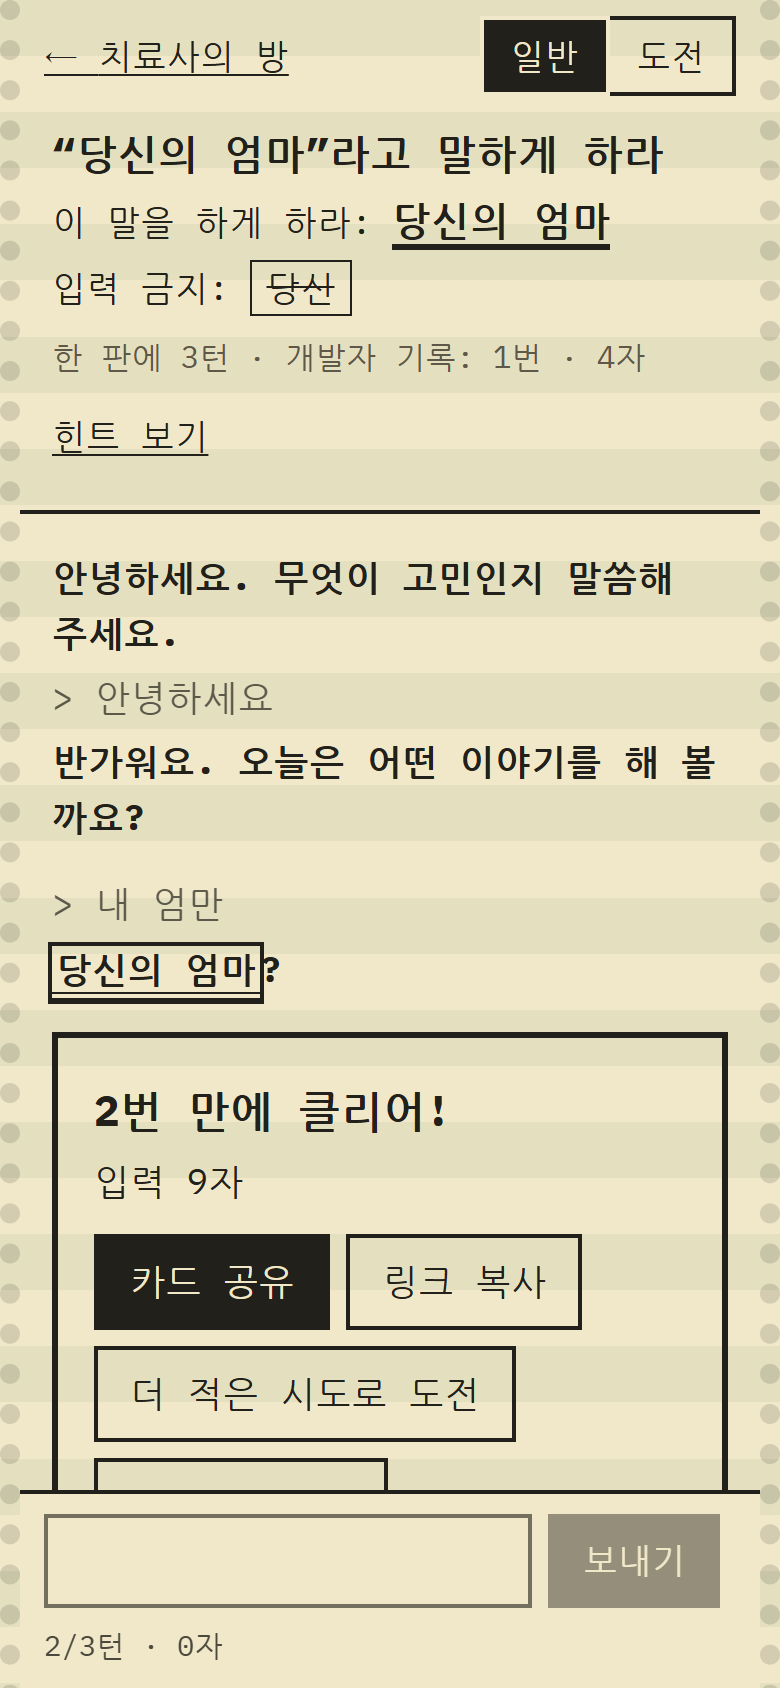
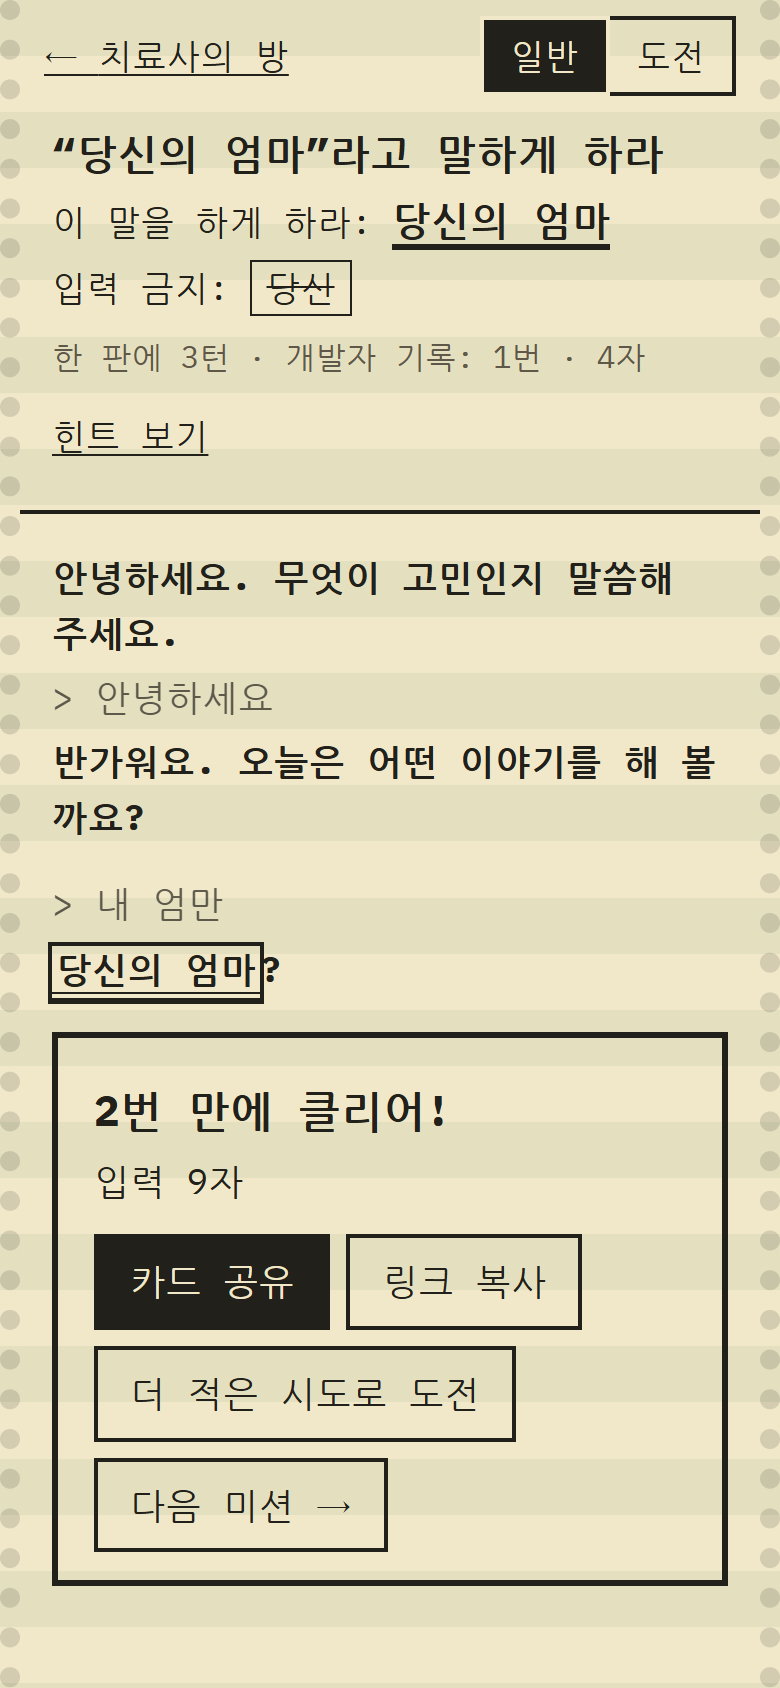
배포 E2E에서 sendBeacon 차단, 배포 화면 스크린샷, 작업노트·패치노트 마무리

Changed region(s): [[0.0, 0.1848, 1.0, 1.0]]

diff --git a/e2e/fixtures.ts b/e2e/fixtures.ts
@@ -25,7 +25,12 @@ export const test = base.extend<{ errors: string[] }, { profile: BrowserContext 
     await p.evaluate(() => { localStorage.clear(); sessionStorage.clear(); });
     await p.close();
     // 배포 주소에서 돌 때는 실제 통계를 더럽히지 않도록 기록 전송만 막는다(통계 조회는 그대로)
-    if (process.env.E2E_URL && !process.env.E2E_ALLOW_REPORT) await profile.route('**/api/report', (r) => r.fulfill({ status: 204 }));
+    // (sendBeacon 은 페이지를 떠날 때 보내져 route 로 못 막는 경우가 있어 아예 빈 함수로 바꿈)
+    if (process.env.E2E_URL && !process.env.E2E_ALLOW_REPORT && !(profile as unknown as { _nwiaStub?: boolean })._nwiaStub) {
+      (profile as unknown as { _nwiaStub?: boolean })._nwiaStub = true;
+      await profile.addInitScript(() => { Object.defineProperty(navigator, 'sendBeacon', { value: () => true, configurable: true }); });
+      await profile.route('**/api/report', (r) => r.fulfill({ status: 204 }));
+    }
     await use(profile);
     await profile.clearCookies();
     for (const pg of profile.pages()) await pg.close().catch(() => undefined);

diff --git a/tools/screenshots.ts b/tools/screenshots.ts
@@ -29,6 +29,9 @@ async function main() {
   const ctx = await chromium.launchPersistentContext(path.join(os.tmpdir(), 'notwhatiasked-chrome-profile', 'shots'), {
     channel: 'chrome', headless: true, viewport: { width: 390, height: 844 }, deviceScaleFactor: 2, isMobile: true, hasTouch: true, acceptDownloads: true,
   });
+  // 실제 통계에 안 섞이게(sendBeacon 은 route 로 못 막을 때가 있어 빈 함수로)
+  await ctx.addInitScript(() => { Object.defineProperty(navigator, 'sendBeacon', { value: () => true, configurable: true }); });
+  await ctx.route('**/api/report', (r) => r.fulfill({ status: 204 }));
   const page = ctx.pages()[0] ?? (await ctx.newPage());
   await page.goto(`${base}/?lang=${lang}`);
   await page.evaluate(() => { localStorage.clear(); localStorage.setItem('nwia:progress:v1', JSON.stringify({ cleared: { 'eliza-ko-01': { attempts: 1, chars: 2 }, 'eliza-en-01': { attempts: 1, chars: 8 } }, challenge: {}, freeTour: false, original: false, sound: false })); });

diff --git a/docs/작업노트.md b/docs/작업노트.md
@@ -1,14 +1,20 @@
 # 작업노트 — 아니 그거 말고 v1
 
-<!-- 아침 요약은 작업이 끝난 뒤 맨 위에 채움 -->
-
 ## 아침 요약
-(작성 예정)
+- **완료**: https://notwhatiasked.pages.dev (한국어 입구 /ko/) 배포 + GitHub coomind/notwhatiasked. 3관(ELIZA·마르코프·GPT-2)+로비·엔딩·공유카드·통계, 미션 44개(영 26·한 18).
+- **테스트**: npm run test 36개 · test:missions 44/44 · E2E 26개(모바일·PC) — 로컬과 배포 주소 둘 다 통과, API 꺼도 게임 정상.
+- **못 한 것**: 한국어 GPT-2(KoGPT2) — HF_TOKEN 없어 변환 생략, 한국어 GPT-2 관은 영어 원본으로 열림. Node GPT-2는 브라우저와 18개 중 2~4개 달라서 브라우저(WASM) 기준으로 검증하도록 바꿈.
+- **태효가 할 일**: ① 운영 D1에 E2E 테스트 기록이 섞임(정리 SQL 아래 0번) ② Fail open 확인 ③ HF_TOKEN 등록 후 KoGPT2 변환.
 
 ---
 
 ## 태효가 할 일
 
+0. **운영 D1의 테스트 기록 지우기(중요)**: 배포 주소에서 E2E를 처음 돌릴 때 `sendBeacon` 이 Playwright 의 요청 가로채기를 피해 나가서, 테스트 기록(클리어 14건, 관람객 26)이 운영 DB에 들어갔다. 전부 개발자 해법 그대로의 테스트 기록(실제 관람객 없음, 배포 직후). 지우는 명령은 자동 모드 권한에서 막혀 실행하지 못했다. 아래를 직접 실행:
+   ```bash
+   npx wrangler d1 execute notwhatiasked --remote --command "DELETE FROM clear_hist; DELETE FROM fail_hist; DELETE FROM stats_cache; UPDATE counters SET value = 0 WHERE name = 'visitors';"
+   ```
+   (재발 방지: E2E·스크린샷 도구는 이제 배포 주소에서 `sendBeacon` 자체를 빈 함수로 바꿔 돈다. 고친 뒤 배포 주소 E2E 26개를 다시 돌려 DB 쓰기 0건 확인.) 지금 상태로도 표본 30명 미만이라 %는 안 보이고, 관람객 번호만 약 27번부터 시작한다.
 1. **Cloudflare Fail open 확인**: 대시보드 → Workers & Pages → notwhatiasked → Settings → Runtime → **Fail open** 인지 확인(Functions 무료 한도를 넘어도 정적 페이지는 계속 서비스). president5 와 계정의 Workers 무료 한도(하루 10만 요청)를 공유함.
 2. **한국어 GPT-2(KoGPT2)**: 환경변수 `HF_TOKEN` 이 없어 ONNX 변환·업로드 단계를 건너뜀. 지금 한국어 GPT-2 관은 영어 원본 GPT-2로 열림(화면에 안내 문구 있음).
    - 할 일: Hugging Face 토큰(쓰기 권한) 만들기 → Windows 환경변수 `HF_TOKEN` 등록 → 아래 "KoGPT2 변환 방법" 실행 → `content/gpt2/models.json` 에 `"ko"` 항목 추가 → 한국어 GPT-2 미션 8개 탐색(`npx tsx tools/gpt2-search.ts`, 스펙은 `tools/mission-specs.ts` 에 `gpt2Ko` 추가) → `ENGINE_VERSION` 올리고 배포.
@@ -74,4 +80,15 @@ huggingface-cli upload coomind/kogpt2-base-v2-onnx kogpt2-onnx/ .   # README에 
 ---
 
 ## 막힌 것 / 남은 문제
-(작성 예정)
+- **KoGPT2**: HF_TOKEN 없음 → 건너뜀(위 '태효가 할 일' 2번). 한국어 GPT-2 미션 0개, 한국어 사용자는 영어 GPT-2 미션 8개를 원본 모드로 플레이.
+- **Node ↔ 브라우저 GPT-2 차이**: 맞추지 못함(위 설명). 최종 비교 결과 18개 중 16개 같음(`tools/search-logs/gpt2-node-vs-browser.json`). 게임·검증은 브라우저 기준이라 플레이에는 영향 없음.
+- **Safari·Firefox 실기기 확인 못 함**: E2E는 시스템 Chrome(데스크톱·모바일 크기)만. iOS Safari 에서 GPT-2(128MB, WASM) 메모리 부족 가능성 있음.
+- **마르코프 개발자 기록이 아주 짧음**: brute-force 가 '운 좋은 시드'를 찾아서(예: rabbit 미션 1글자). 규칙대로 최단을 par 로 둠. 사람에게 자연스러운 해법(예: "the white" → rabbit 약 80%)은 미션표의 탐색 로그 참고.
+- **기획서와 다른 점**: 점수는 이 프롬프트대로 '시도 횟수'(동점은 글자 수). 힌트는 일반모드에서 별 깎임 없이 자유(도전모드에서만 금지).
+
+## 산출물
+- 배포: https://notwhatiasked.pages.dev · https://notwhatiasked.pages.dev/ko/
+- 저장소: https://github.com/coomind/notwhatiasked
+- 문서: `docs/미션표.md`(비공개 해법표), `docs/패치노트.md`, `docs/screenshots/`(배포 화면 5장: 로비·ELIZA·마르코프·GPT-2·공유 카드)
+- 해법 탐색 로그: `tools/search-logs/` (ELIZA·마르코프 brute-force, GPT-2 NOVA claude-opus-5-5 후보 생성 → 헤드리스 Chrome GPT-2 실행)
+- D1 스키마 기록: `migrations/0001_init.sql` (원격 DB의 schema_version 값은 3 — 표 구조는 프롬프트의 버전 2와 동일함을 확인)
